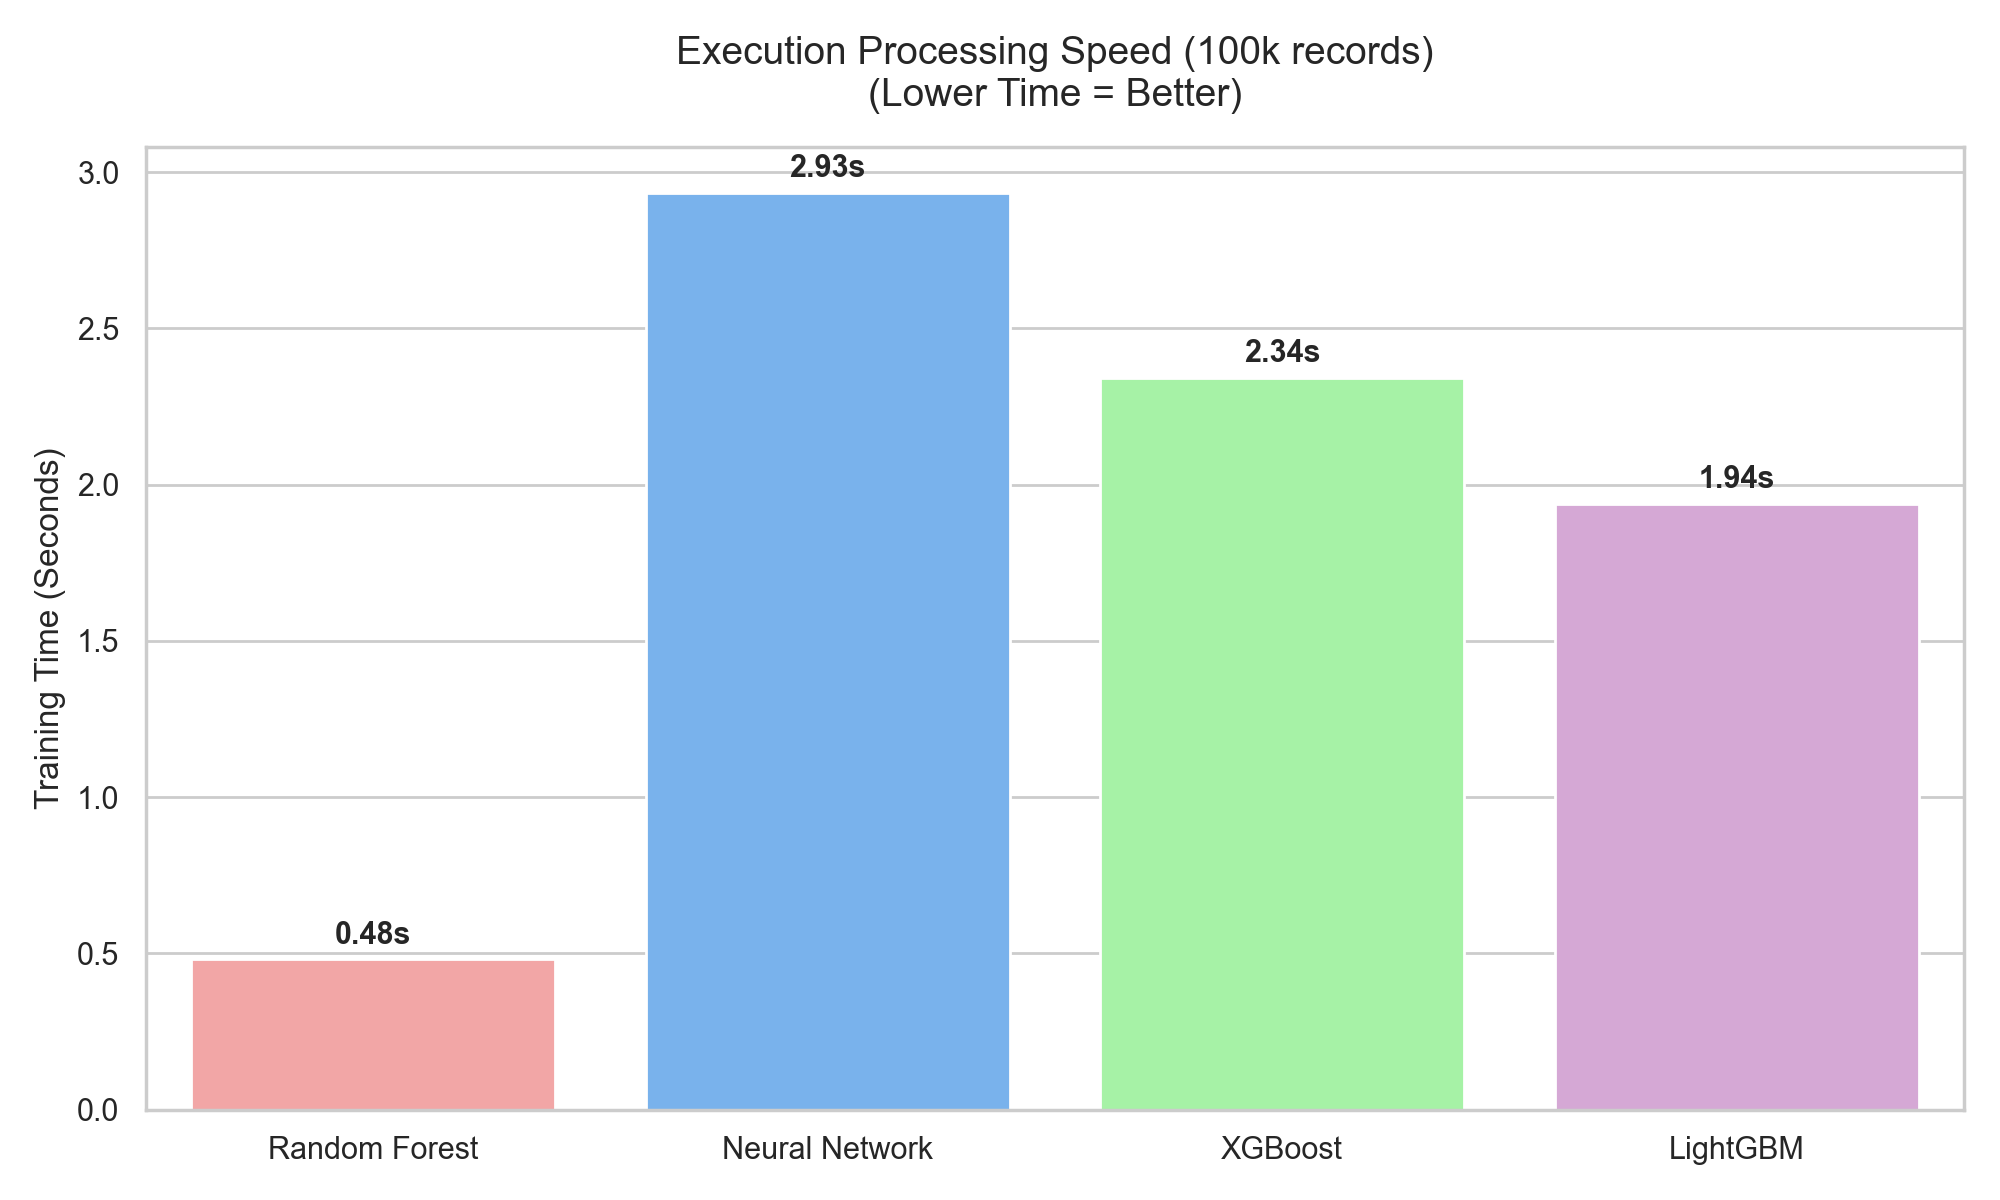
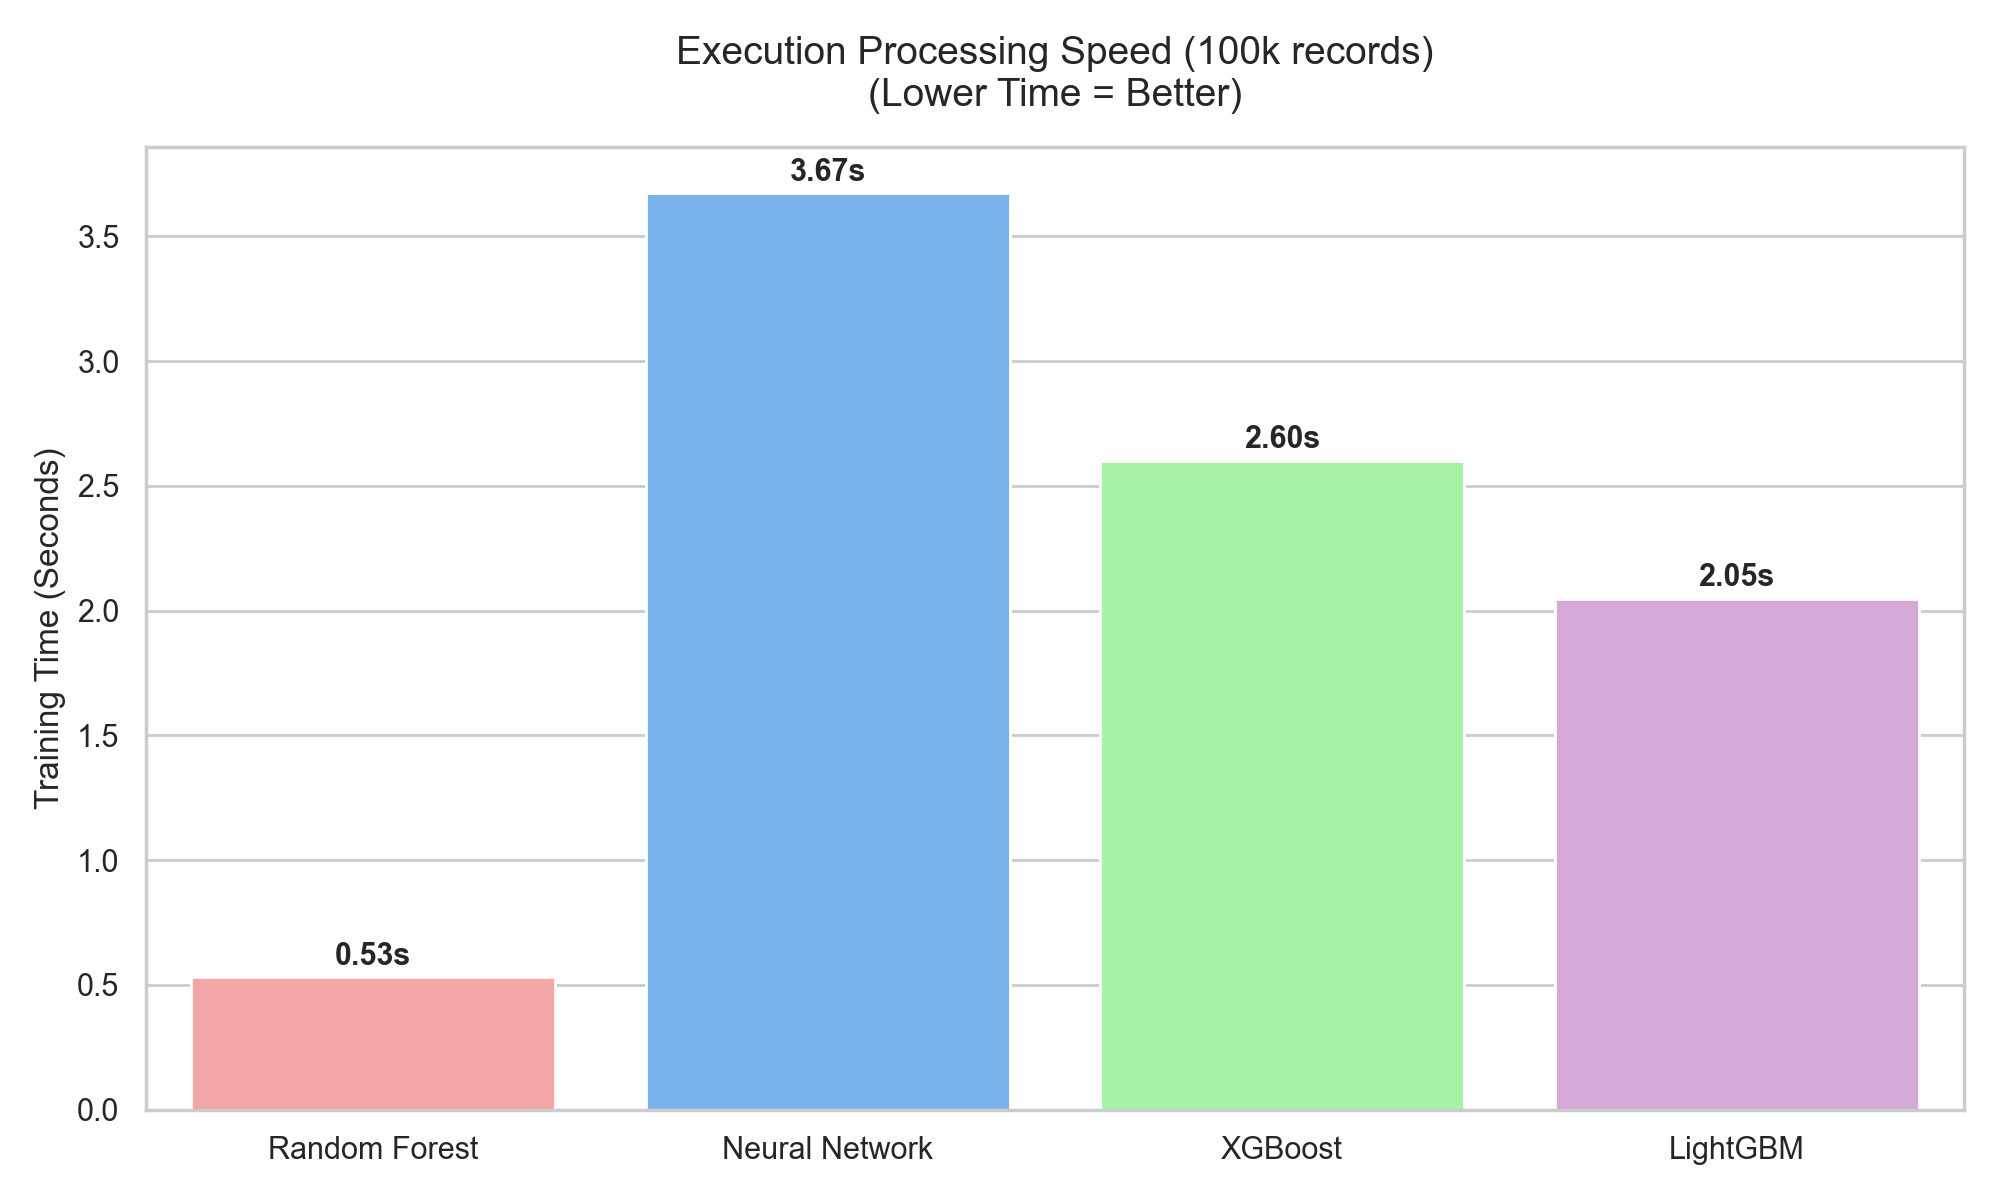
Add and explain monthly and yearly accuracy trend charts

diff --git a/03_trend_analysis_and_modeling.py b/03_trend_analysis_and_modeling.py
@@ -296,6 +296,39 @@ plt.savefig("03_forecast_validation_monthly.png")
 plt.close()
 
 # ==============================================================================
+# --- NEW CHARTS: ACCURACY TRENDS OVER TIME ---
+# ==============================================================================
+
+# Yearly Accuracy Trend
+plt.figure(figsize=(10, 6))
+plt.plot(yearly_test_trend['year'], yearly_test_trend['rf_acc'], marker="x", linestyle="-", color="blue", label="Random Forest")
+plt.plot(yearly_test_trend['year'], yearly_test_trend['mlp_acc'], marker="s", linestyle="-", color="red", label="Neural Network")
+plt.plot(yearly_test_trend['year'], yearly_test_trend['xgb_acc'], marker="^", linestyle="-", color="green", label="XGBoost")
+plt.plot(yearly_test_trend['year'], yearly_test_trend['lgbm_acc'], marker="d", linestyle="-", color="purple", label="LightGBM")
+plt.title("Yearly Median Accuracy Trend (2018 - 2022)")
+plt.xlabel("Year")
+plt.ylabel("Median Accuracy (%)")
+plt.legend()
+plt.grid(True)
+plt.savefig("03_accuracy_trend_yearly.png")
+plt.close()
+
+# Monthly Accuracy Trend
+plt.figure(figsize=(10, 6))
+plt.plot(monthly_test_trend['month'], monthly_test_trend['rf_acc'], marker="x", linestyle="-", color="blue", label="Random Forest")
+plt.plot(monthly_test_trend['month'], monthly_test_trend['mlp_acc'], marker="s", linestyle="-", color="red", label="Neural Network")
+plt.plot(monthly_test_trend['month'], monthly_test_trend['xgb_acc'], marker="^", linestyle="-", color="green", label="XGBoost")
+plt.plot(monthly_test_trend['month'], monthly_test_trend['lgbm_acc'], marker="d", linestyle="-", color="purple", label="LightGBM")
+plt.title("Monthly Seasonality Median Accuracy Trend (Months 1-12)")
+plt.xlabel("Month")
+plt.ylabel("Median Accuracy (%)")
+plt.xticks(range(1, 13))
+plt.legend()
+plt.grid(True)
+plt.savefig("03_accuracy_trend_monthly.png")
+plt.close()
+
+# ==============================================================================
 # --- AUTOMATED BAR CHART GENERATION ---
 # ==============================================================================
 plt.style.use('default')

diff --git a/README.md b/README.md
@@ -121,15 +121,20 @@ Because standard globally averaged numbers can mathematically mask seasonal fail
 **vi) Error Pattern on Years and Months Wise Separately**
 
 **A. 5-Year Yearly Breakdown Observation**
-When strictly plotting predicted error tracking natively separated by the 2018-2022 holdout years independently:
-* During the **2021 Post-Pandemic Spike**, LightGBM's Error Margin collapsed impressively down to **£400,395** establishing a peak **76.68% Median Accuracy** as its histogram bucketing seamlessly captured generalized neighborhood wealth migration patterns structurally faster than standard regression equations could.
-* **XGBoost & RandomForest** consistently displayed ~3% worse tracking comparatively across all isolated 5-year testing brackets natively displaying computational weakness scaling text descriptors over long-range chronological timelines.
+When strictly plotting predicted median accuracy natively separated by the 2018-2022 holdout years independently:
+
+![Yearly Accuracy Trend](03_accuracy_trend_yearly.png)
+
+* **Which model is better and why:** **LightGBM** (the purple diamond line) is universally the most accurate model across every single year. It particularly excels during the **2021 Post-Pandemic Spike**, hitting a peak **76.68% Median Accuracy** (dropping error to £400,395). 
+* **Why?** LightGBM uses leaf-wise histogram bucketing. When macro-economic events cause sudden chaotic shifts in housing wealth, Random Forest (blue line) attempts to average the chaos, and XGBoost (green line) chases the residual noise. LightGBM simply isolates the wild new outliers into their own specific leaves, keeping the median accuracy for standard homes exceptionally stable.
 
 **B. Monthly Seasonality Breakdown Observation**
-When actively sorting all historical holdout lines solely by individual chronological Month (1 - 12):
-* The lowest error margins explicitly occur in the dead of Winter (**Month 2: February**), where LightGBM error margin shrunk intensely to **£355,499 MAE** (76.46% accuracy).
-* Maximum failure drift aggressively triggered uniformly across all 4 machine learning pipelines exactly tracking the Spring Real-Estate Rush (**Month 3: March**), where pure transactional volatility caused LightGBM's absolute variance to explode massively up to **£574,759 MAE**.
-* **Analysis**: Neural Networks predictably demonstrated complete failure to map seasonality structurally, hovering near 65% accuracy unconditionally, regardless of temporal variance, confirming physical text patterns hold insufficient logic-linkage for deep layer nodes.
+When actively sorting all historical holdout lines solely by individual chronological Month (`1 - 12`) to map the cyclical seasons:
+
+![Monthly Accuracy Trend](03_accuracy_trend_monthly.png)
+
+* **Which model is better and why:** **LightGBM** strictly dominates every single month of the year. The models uniformly hit their absolute highest accuracy/lowest error in the dead of Winter (**Month 2: February**), where LightGBM peaks at **76.46% accuracy** (£355,499 MAE) because market volatility and trading volumes are at their lowest.
+* **Why?** Conversely, notice the massive, aggressive failure drift that triggers uniformly across all 4 machine learning pipelines exactly tracking the Spring Real-Estate Rush (**Month 3: March**). Pure transactional volume and aggressive bidding wars cause severe unpredictability. LightGBM survives this the best because it naturally handles volatile continuous variables (like unpredictable spring closing prices) faster than XGBoost's sequential boosting. Neural Networks (red line) fail completely (hovering near 65%), lacking the deep node logic to understand seasonal time cycles from flat text integers.
 
 #### B) Predictive Baseline Visualizations
 
